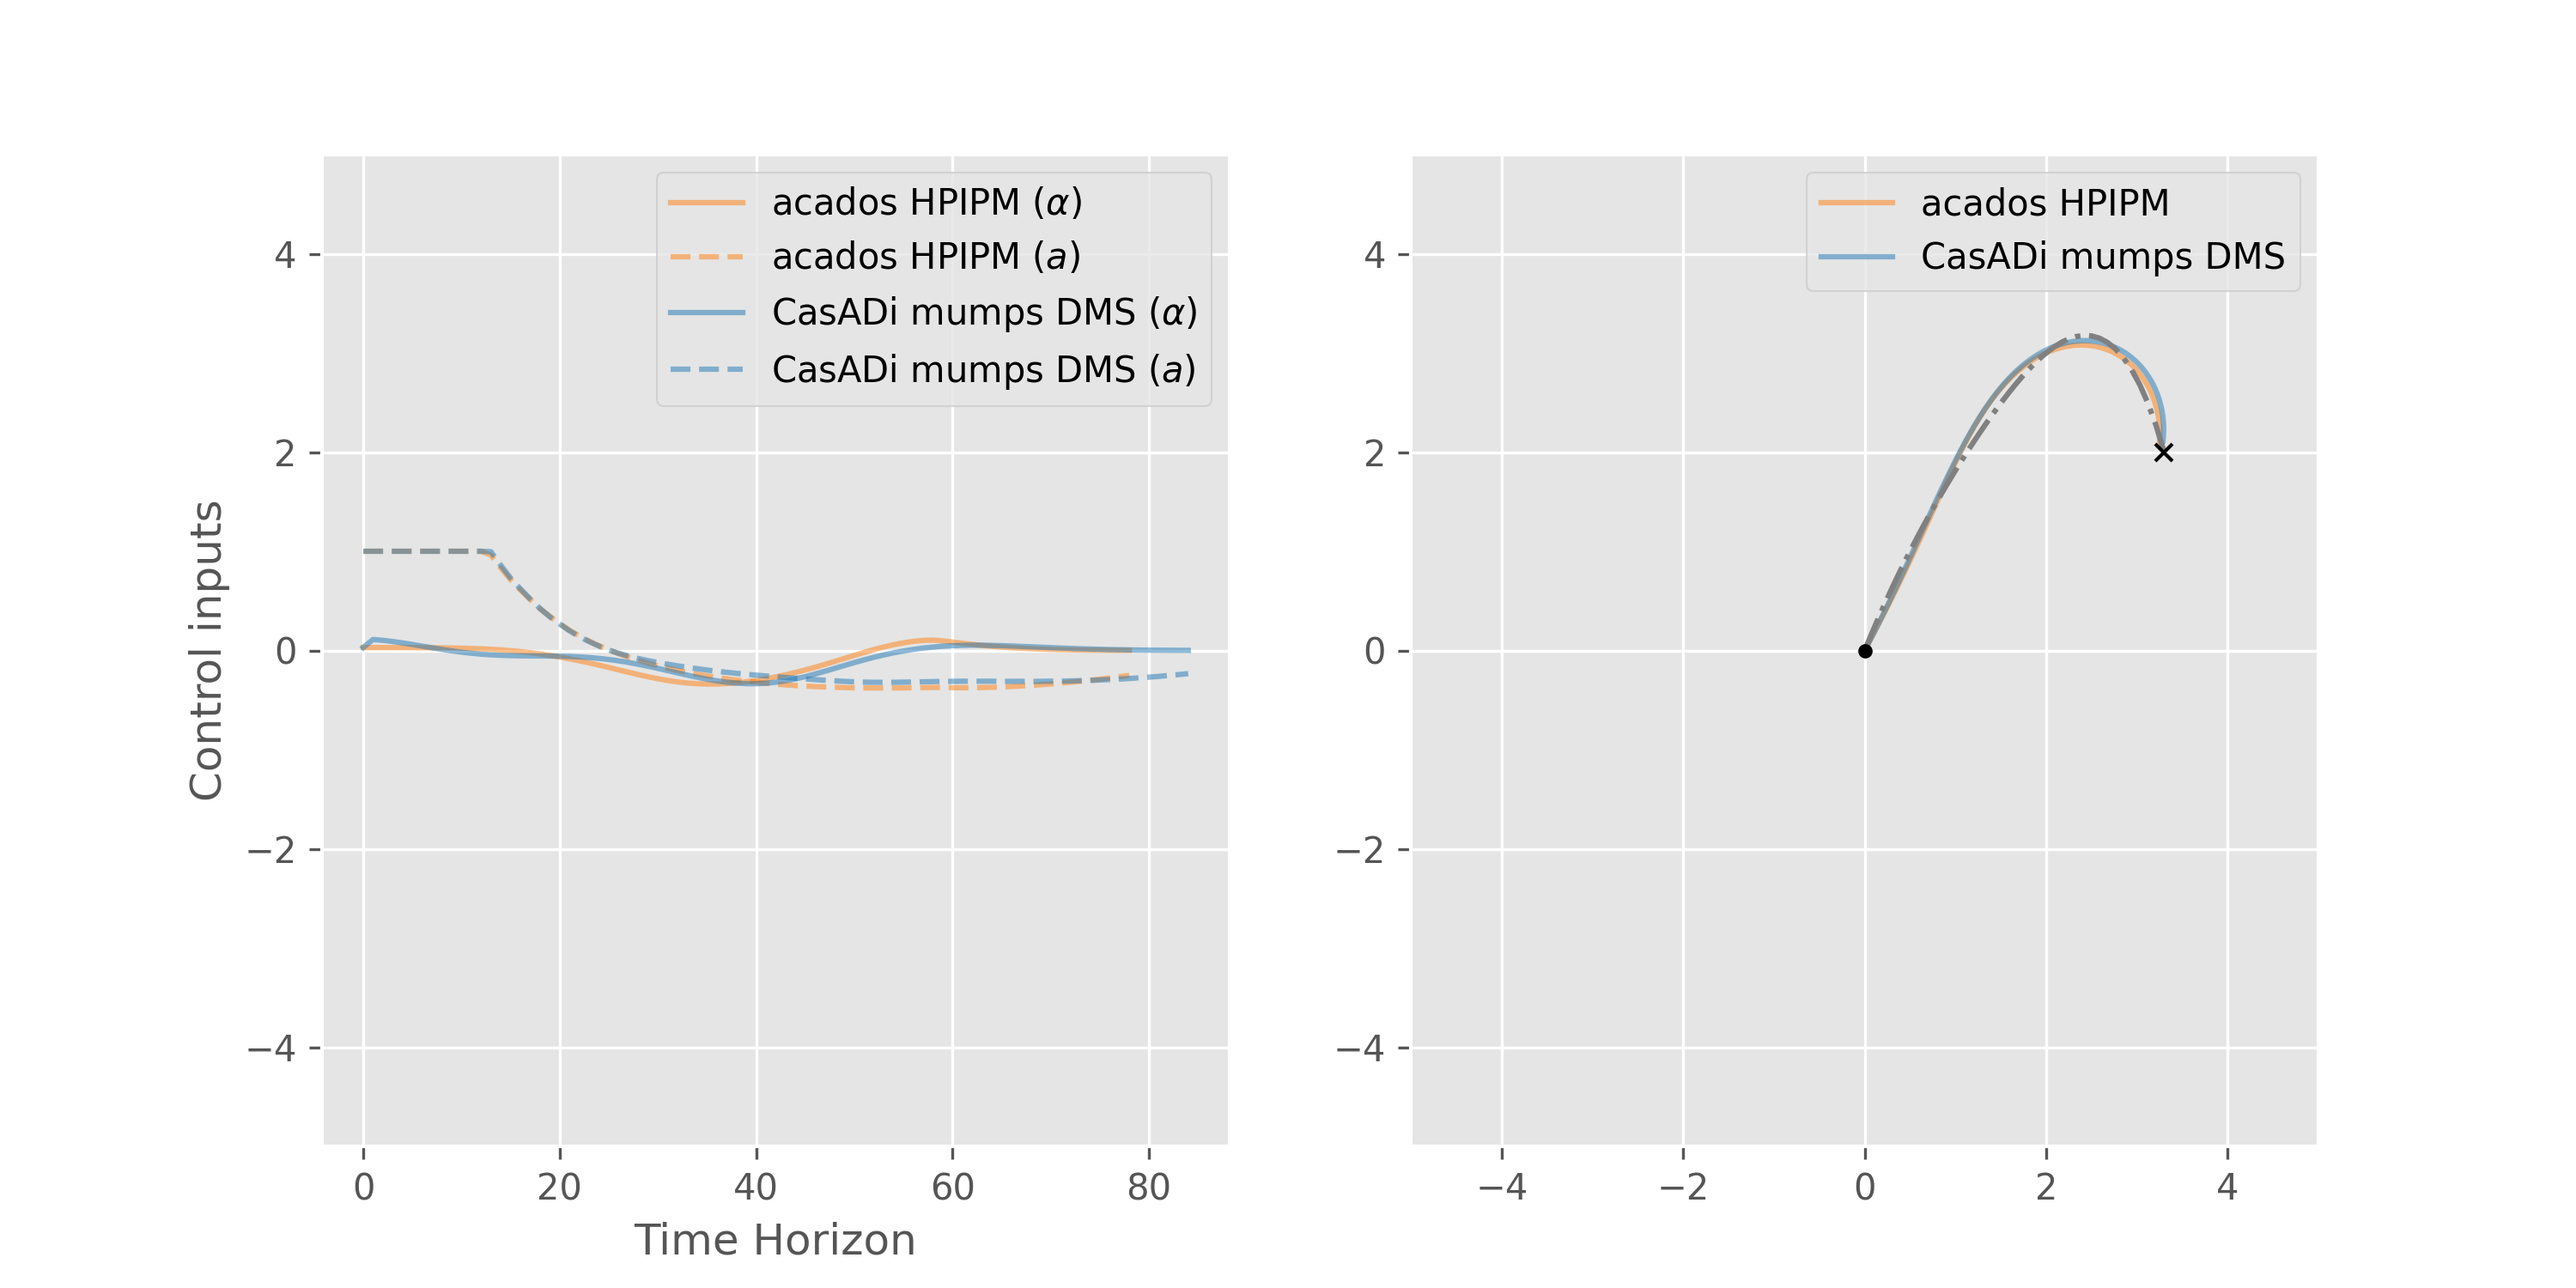
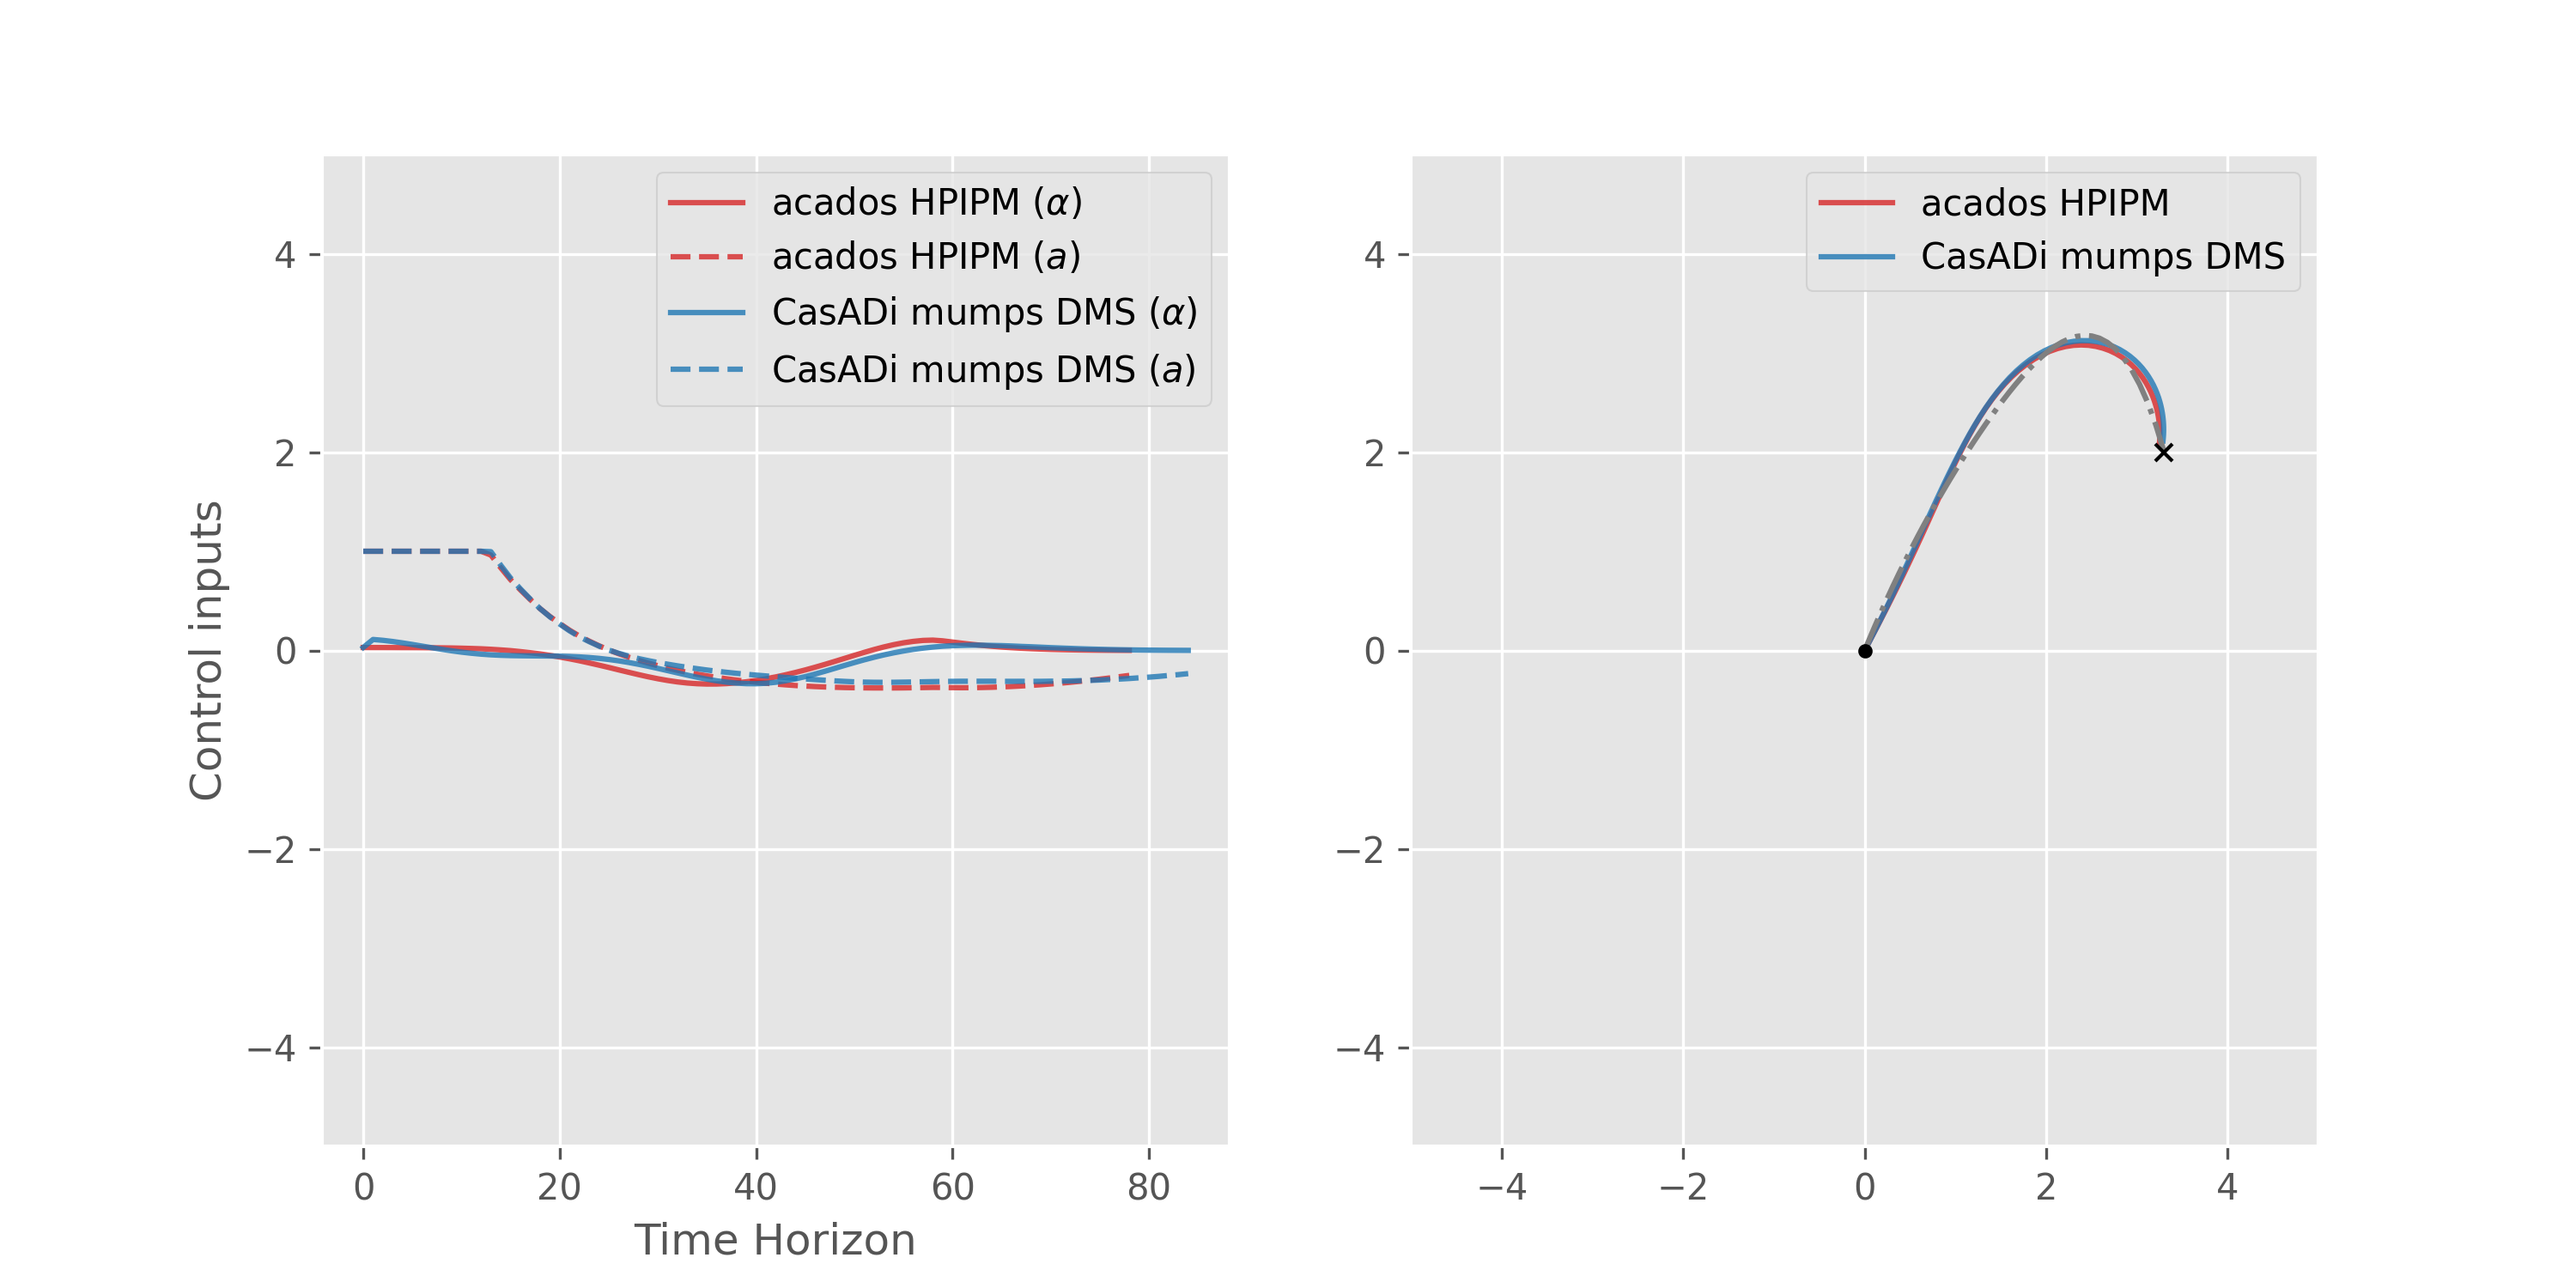
New comparison plots

Changed region(s): [[0.124, 0.4907, 0.465, 0.552], [0.775, 0.2453, 0.837, 0.3067]]

diff --git a/eval_scripts/paths.py b/eval_scripts/paths.py
@@ -65,24 +65,15 @@ for filename in os.listdir(direc):
             solver = 'DMS' if 'rk4' in filename else 'DC'
             label_prefix = library + ' ' + method + ' ' + solver
         else:
-            color = 'tab:orange'
+            color = 'tab:red'
 
             method = lgd_tmp[1]
             label_prefix = library + ' ' + method.split('.')[0]
 
-        ax1.plot(range(len(alpha)), alpha, '-', color=color, alpha=0.5, label=label_prefix + r' ($\alpha$)')
-        ax1.plot(range(len(a)), a, '--', color=color, alpha=0.5, label=label_prefix + r' ($a$)')
+        ax1.plot(range(len(alpha)), alpha, '-', color=color, alpha=0.8, label=label_prefix + r' ($\alpha$)')
+        ax1.plot(range(len(a)), a, '--', color=color, alpha=0.8, label=label_prefix + r' ($a$)')
 
-        ax2.plot(x, y, color=color, alpha=0.5, label=label_prefix)
-
-        # csv_tmp = pd.read_csv(f, header=None)
-        # print(filename)
-        # time_simple_mean = csv_tmp[0].to_numpy()[5:-5].mean()
-        # print('time_simple mean', f'{time_simple_mean:.4f}')
-        # ipopt_mean = csv_tmp['IN_IPOPT'].mean()
-        # nlp_mean = csv_tmp['IN_NLP'].mean()
-        # print('ipopt mean', f'{ipopt_mean:.4f}')
-        # print('nlp mean', f'{nlp_mean:.4f}')
+        ax2.plot(x, y, color=color, alpha=0.8, label=label_prefix)
 
 if is_mpcc:
     curve = {'init_ts': np.array([0, 0, np.pi/3, 0, 0, 0]),
@@ -115,4 +106,5 @@ ax2.set_xlim([-5, 5])
 ax1.legend()
 ax2.legend()
 
-plt.savefig(os.path.join(curr_path, 'mpcc_path_comp.png'), dpi=300)
+name_mp = 'mpcc' if is_mpcc else 'mpc'
+plt.savefig(os.path.join(curr_path, '{}_path_comp.png'.format(name_mp)), dpi=300)
